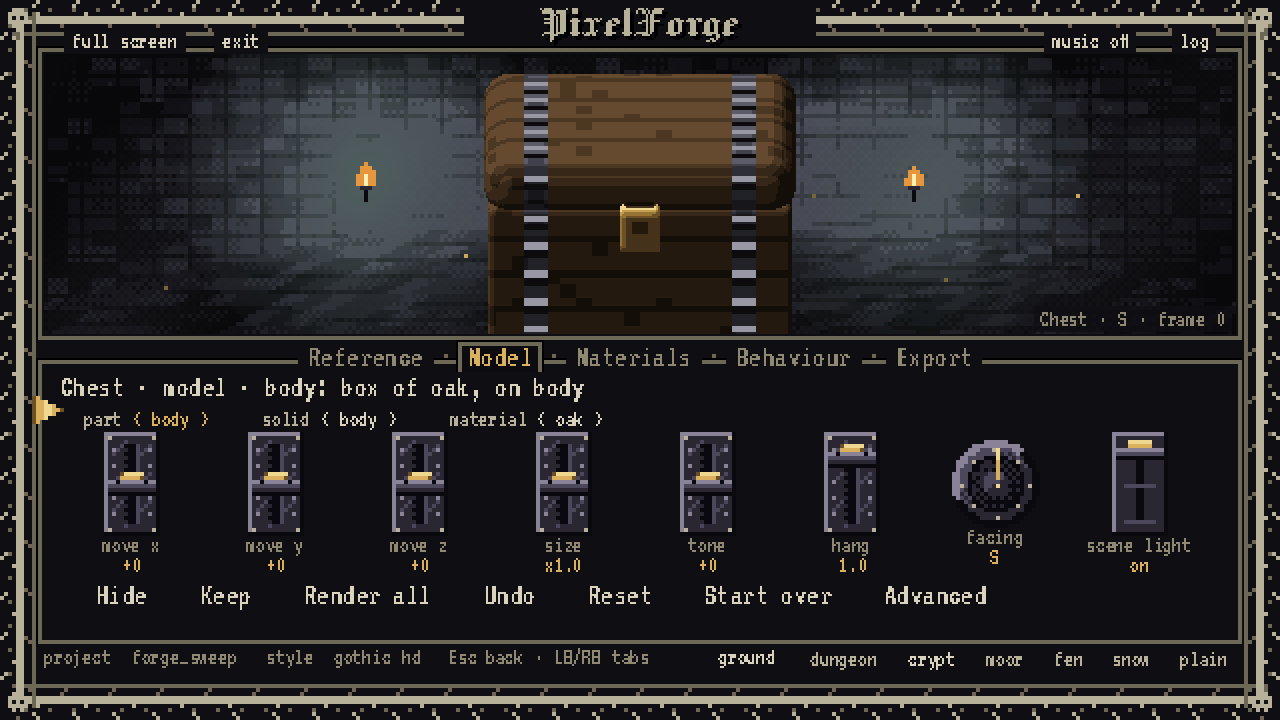
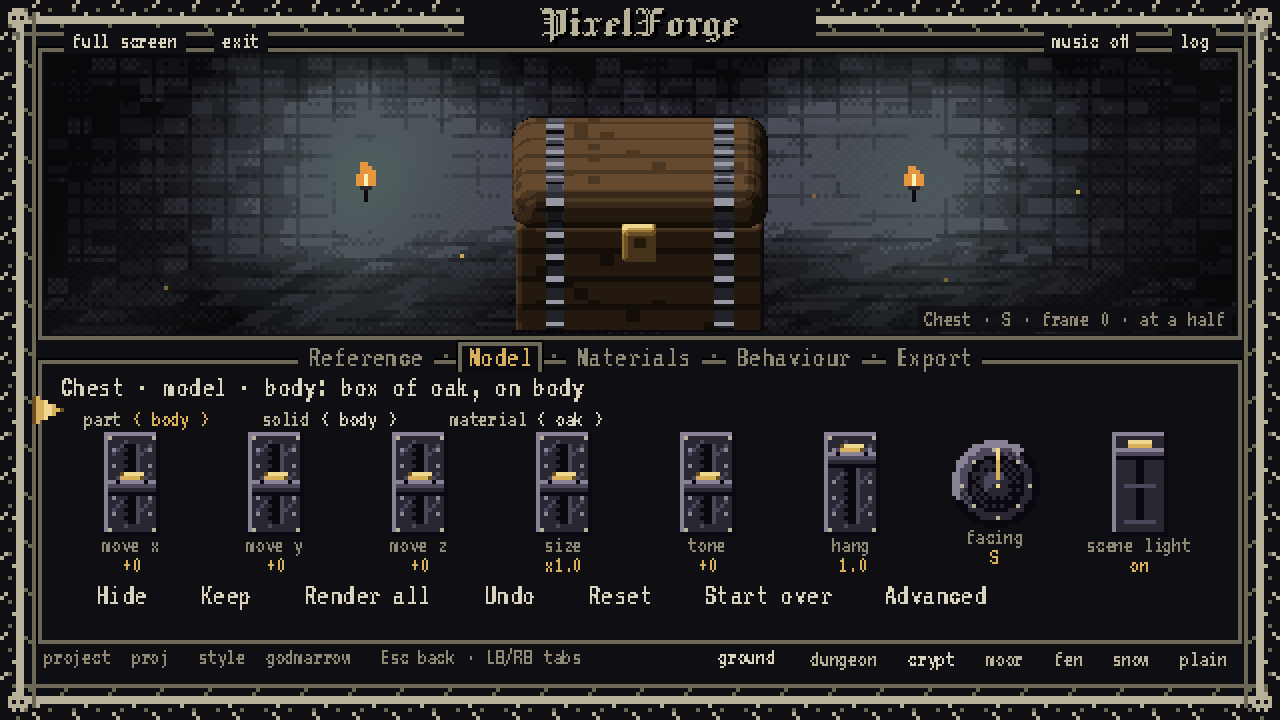
Forge: the facing wheel draws the last facing once, stale renders are ignored, a tall figure stands whole
The owner saw "multiple stacked models" after turning the facing. The picture window never held more than one
still (scene.show_still replaces); what showed was the godmarrow figure (195 px) cut off at the shoulders in the
140 px window, and turns that got lost: screen.run dropped every request made while a render ran, so a quick turn
through several facings drew only the first; the wheel's mouse drag and scroll committed a 0..1 value the facing
read as degrees (always S); a render that came back after a newer turn still landed.

- screen.request(): a 0.2 s debounce, a request made during a job waits for it (the last one wins), a ticket
  marks older results stale; refresh_preview and the clip render on Characters, Creatures and Objects use it
- Knob commits commit_value() (a Wheel's angle, not its 0..1 value); a scroll step commits once, not twice
- the wheel keeps its fine angle across the rebuild a turn causes and the selector stays on the facing control
- scene.figure_scale(): a figure taller than the floor line stands at a half (or a quarter), measured from its
  painted height; its lights and the turntable scale with it; the caption says "at a half"
- tools/test_scene.gd: 21 headless checks (one still after N show_still calls, onion count, the half fit, the
  wheel's commit value, request debounce / queue / stale tickets)
- characters_model.png and objects_model.png re-shot; HANDOFF 7.23

Claude-Session: https://claude.ai/code/session_01AnujA4r6kzJEaVUmm56NAm

diff --git a/docs/HANDOFF.md b/docs/HANDOFF.md
@@ -796,3 +796,7 @@ tools/pixelforge/forge --script res://tools/check_scripts.gd`; `pixelforge forge
 owner's listening pass on the theme and three samples; map the describe line's mood words to `music compose`; a
 chord lane; swing.
 
+
+### 7.23 2026-10-05, track/facing-bug: the facing wheel ("multiple stacked models")
+
+**What.** The picture window never held more than one still (`scene.show_still` replaces; `tools/test_scene.gd`, 21 checks, proves it headless); what the owner saw was the `godmarrow` figure (195 px) standing cut off at the shoulders in the 140 px window, and a wheel whose turns got lost: `screen.run` dropped every request made while a render ran ("Still working"), so a quick turn through four facings drew only the first, the wheel's mouse drag and scroll committed a 0..1 value the facing read as degrees (always S), and a render that came back after a newer turn still landed. Fixed: `screen.request()` (a 0.2 s debounce, the request waits for the running job, the last one wins, a ticket marks older results stale) behind `refresh_preview` / the clip render on Characters, Creatures and Objects; the Knob commits `commit_value()` (a Wheel's angle) and steps commit once; the wheel keeps its angle across the rebuild and the selector stays on it; `scene.figure_scale()` stands a figure taller than the floor line at a half (caption "· at a half"), lights scaled with it. Reproduced and verified under xvfb with `--script` (four `set facing` in a row: one render, the last; keys: one facing per three presses); `check_scripts` 33/0, `test_editor` 106/0, `test_scene` 21/0, pytest 200; `characters_model.png` and `objects_model.png` re-shot.
